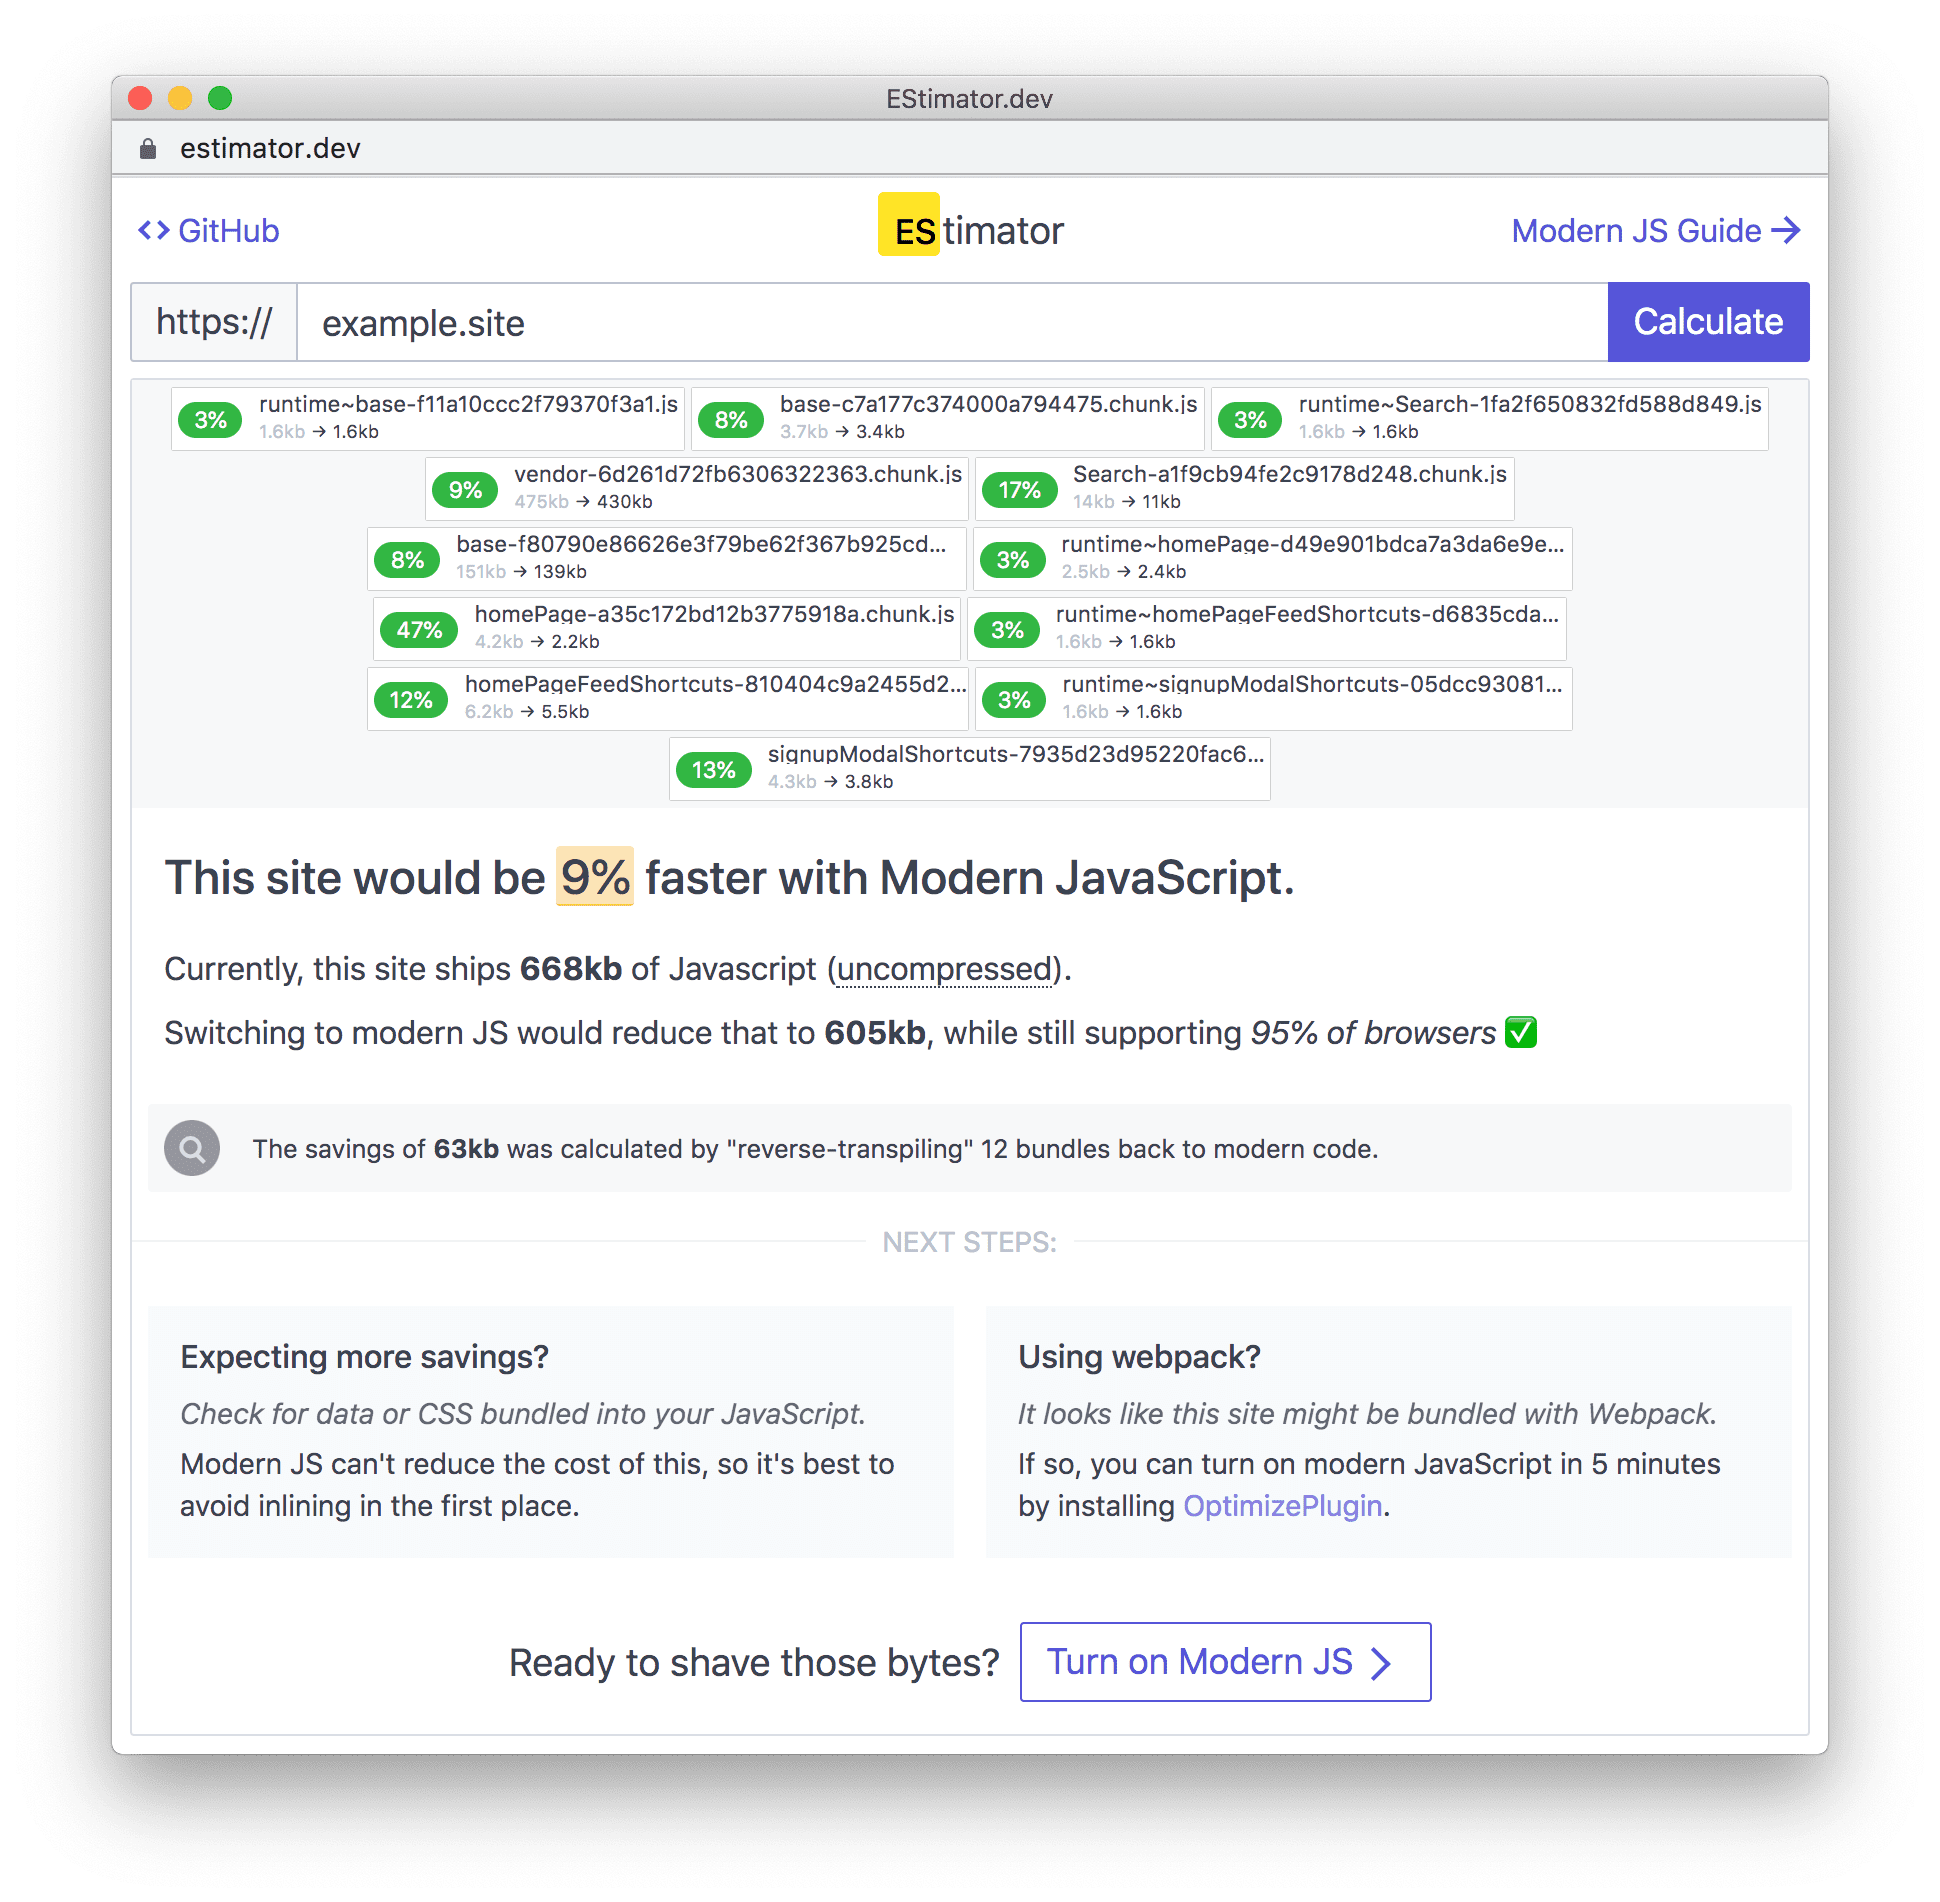
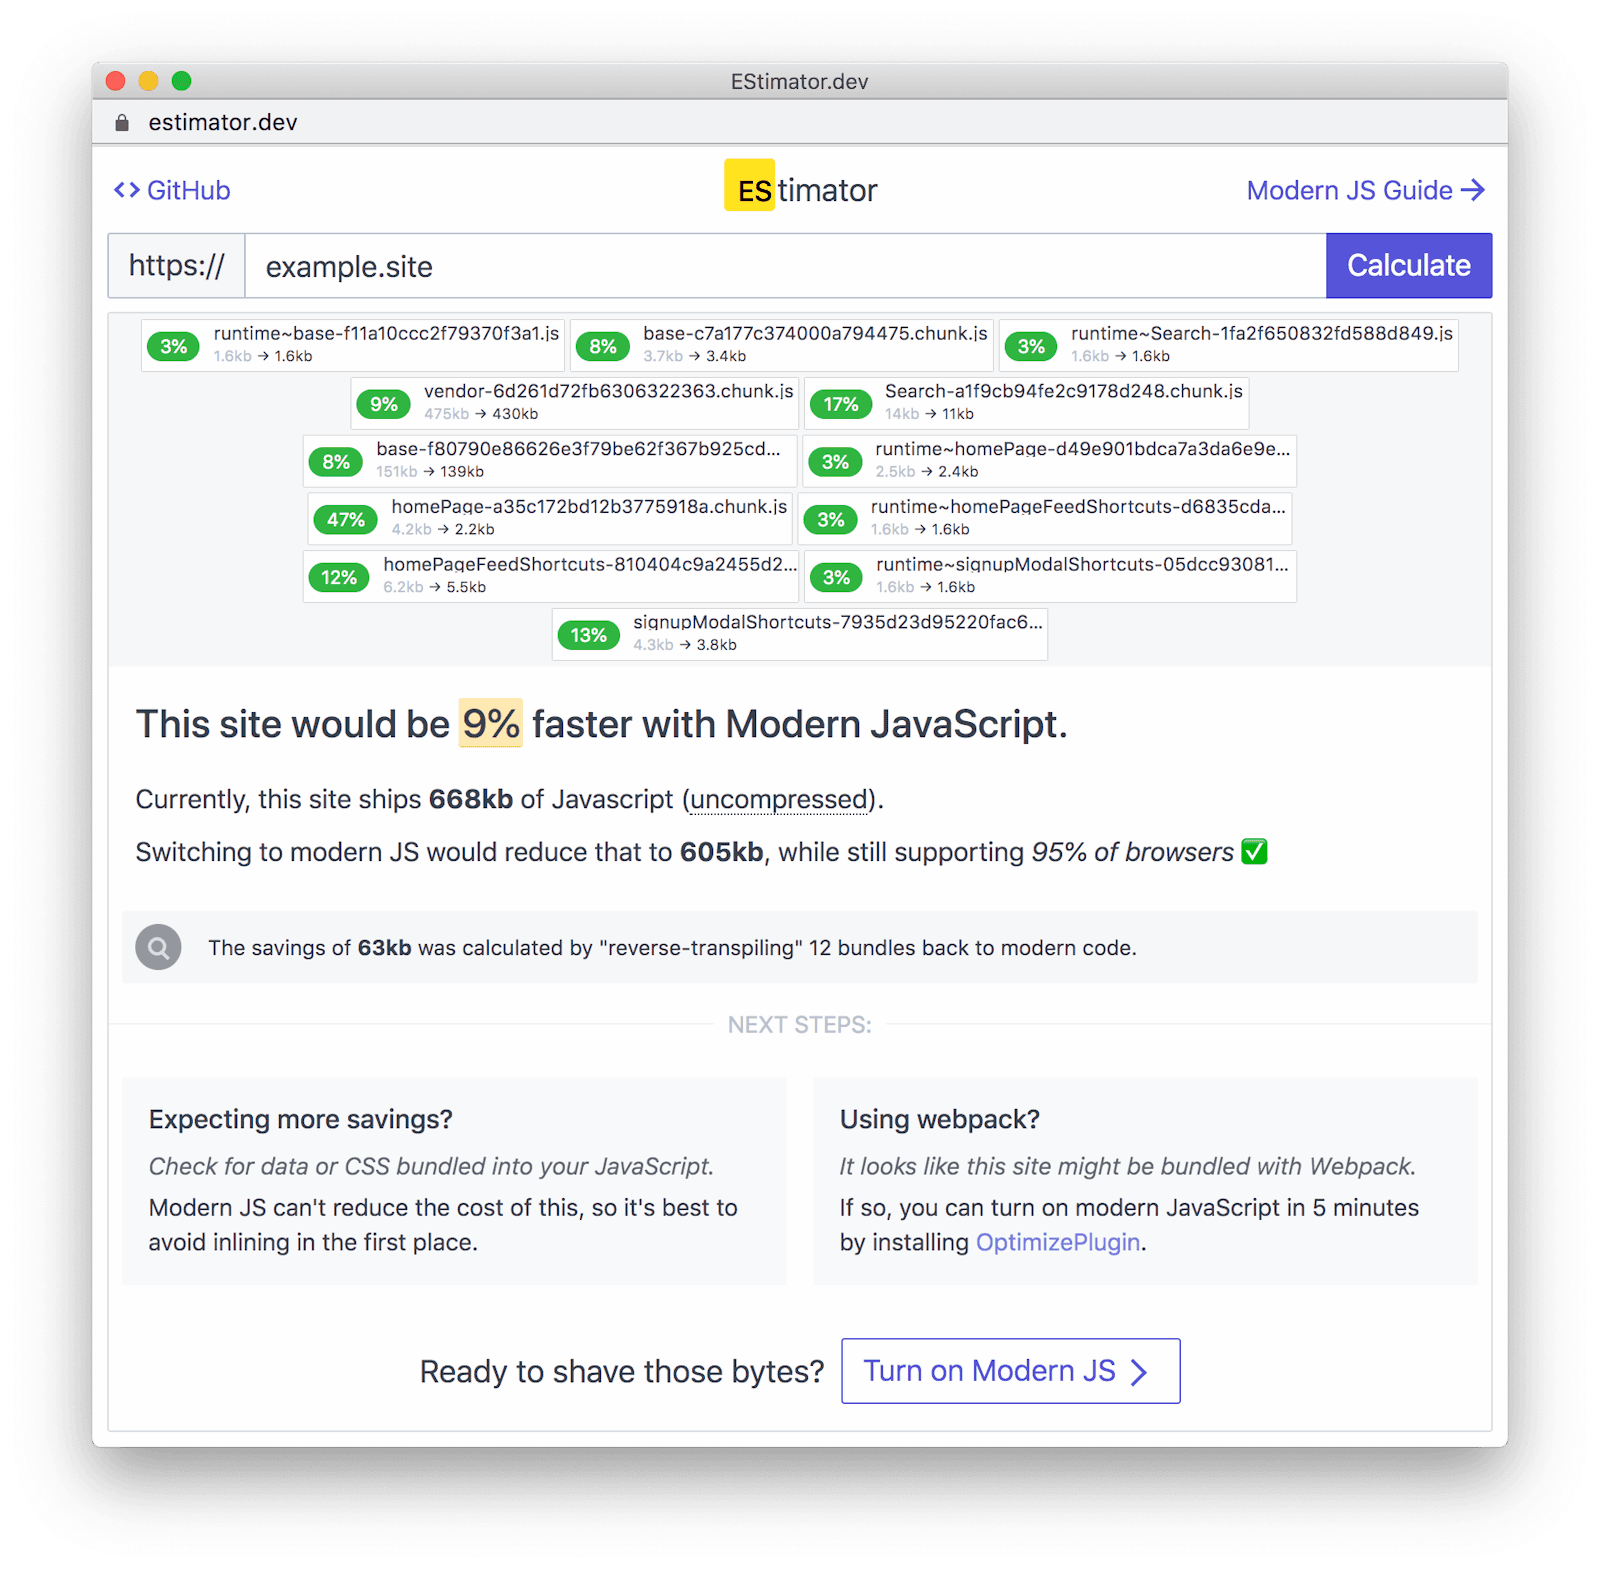
resize screenshot

diff --git a/src/site/content/en/fast/publish-modern-javascript/index.md b/src/site/content/en/fast/publish-modern-javascript/index.md
@@ -29,7 +29,7 @@ site could achieve by delivering modern JavaScript syntax.
 <figure class="w-figure w-figure--fullbleed">
   <img src="./estimator-screenshot.png"
        alt="EStimator.dev analysis showing a website could be 9% faster with modern JavaScript."
-       width="970">
+       width="800">
   <figcaption class="w-figcaption w-figcaption--fullbleed">
     EStimator.dev
   </figcaption>
